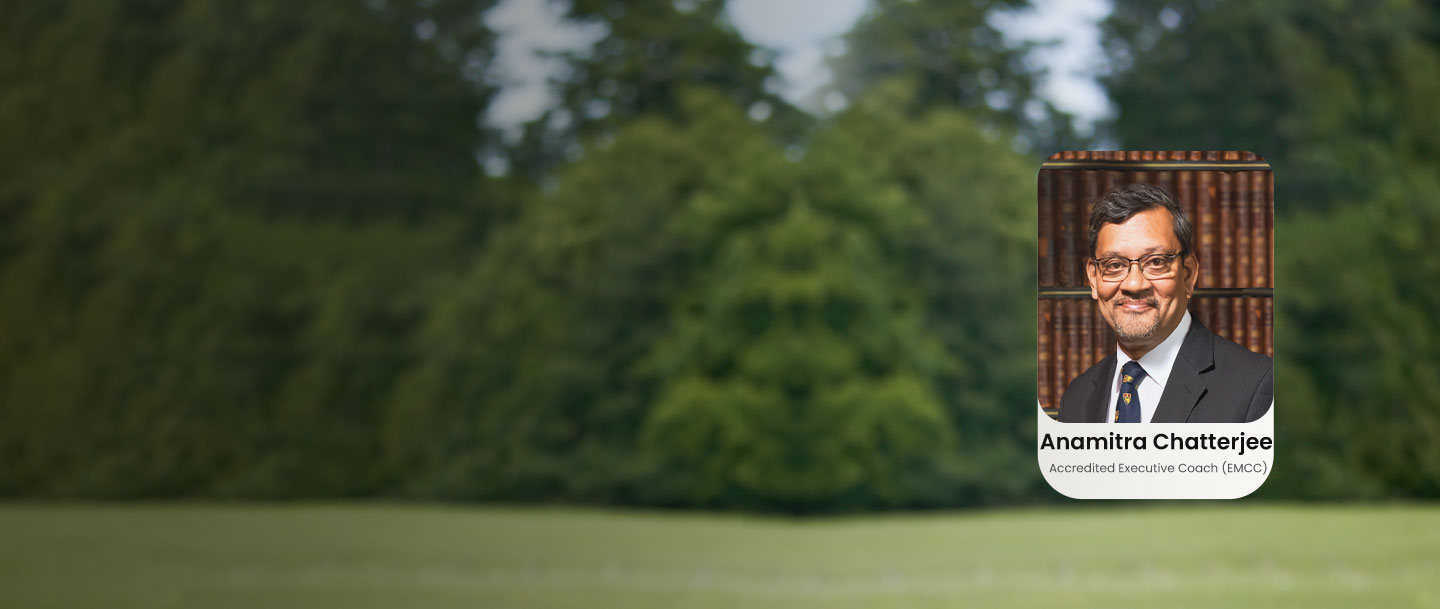
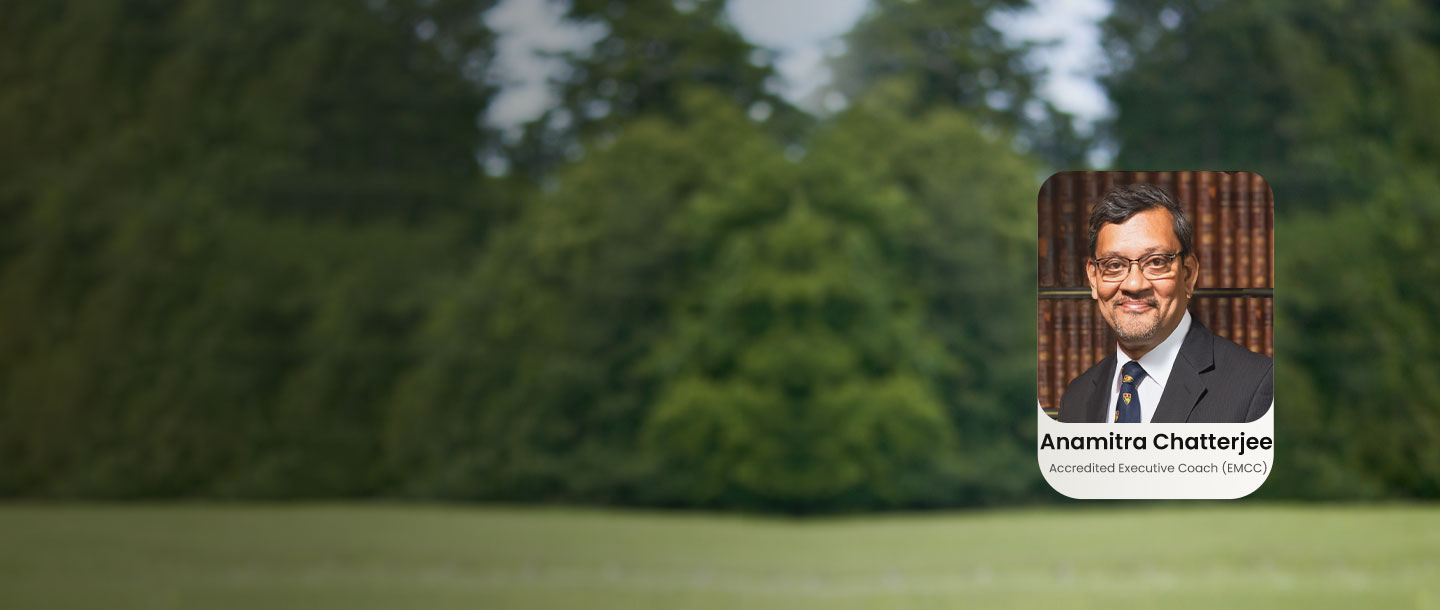
your message

diff --git a/organization-behaviour.html b/organization-behaviour.html
@@ -78,21 +78,17 @@
 	
 	   <div class="banner-wrap Organization-banner-wrap">
       <div class="container">
-        <div class="row">
-          <div class="col-lg-8">
+        <div class="row" style="margin-left: 45%">
+          <div class="col-lg-12">
 			  
-			  
-			  
-			  
-			  
-            <!-- <div class="quote"> -->
-              <!-- <p> -->
-                <!-- “In the midst of winter, I found there was, within me,<br> an invincible summer.”<br><br> -->
+          <div class="quote" style="color: #fff;"> 
+             <p style="color: #fff;">
+             “Organizations should identify, value and develop <br> high-potential talent.”<br><br>
 
 
-                <!-- <b>– Albert Camus</b> -->
-              <!-- </p> -->
-            <!-- </div> -->
+          <b>  – Anamitra Chatterjee </b>
+            </p>
+          </div> 
           </div>
           
         </div>

diff --git a/executive-education.html b/executive-education.html
@@ -98,10 +98,10 @@ of 25+ years in India & UK across Deutsche Bank and PwC, Hult Ashridge UK & IIMs
               <li>Indian Institute of Management (IIM) Kozhikode: <span class="nor-txt">Adjunct Faculty since 2022</span><br />
                 <strong>Courses Taught:</strong>
 				  <p>
-				  1. Organisation Behaviour (OB-II) for EPGP<br/>
+				  1. Organisation Behaviour (OB-II)<br/>
                     &nbsp;&nbsp; 1.5 Credit. 15 hours. Courseware & Evaluation: 2023, 2024<br/>
 					  
-			      2. Organisation Behaviour (OB I) for EPGP11,
+			      2. Organisation Behaviour (OB I)
 					  <br> &nbsp;&nbsp;  1.5 Credit. 15 hours. Courseware & Evaluation: 2024<br/>
                   
 					  3. Organisation Development & Change (OD&C)

diff --git a/assets/css/main.css b/assets/css/main.css
@@ -986,7 +986,8 @@ height:609px;
 .Organization-banner-wrap {
 	overflow: hidden;
 	background: url("../img/Organization-Behaviour-banner.png") no-repeat center;
-	min-height:609px;
+/*	min-height:609px;*/
+	min-height:700px;
 	background-size: cover;
 	
 	
